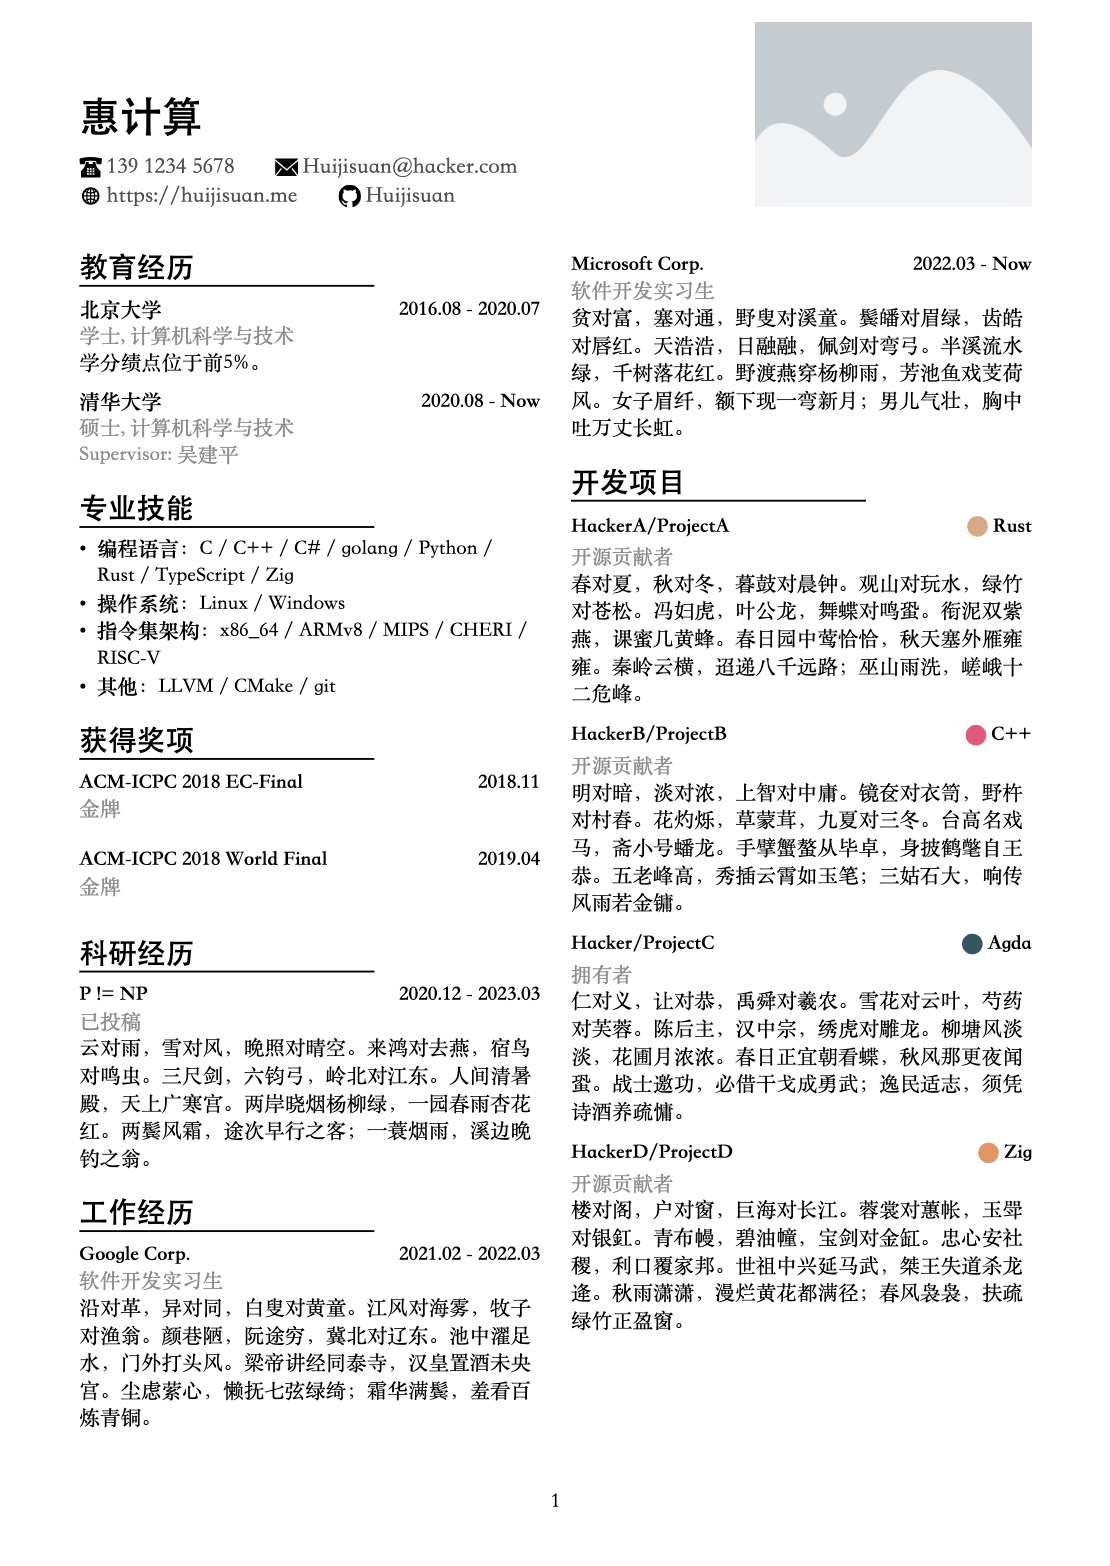
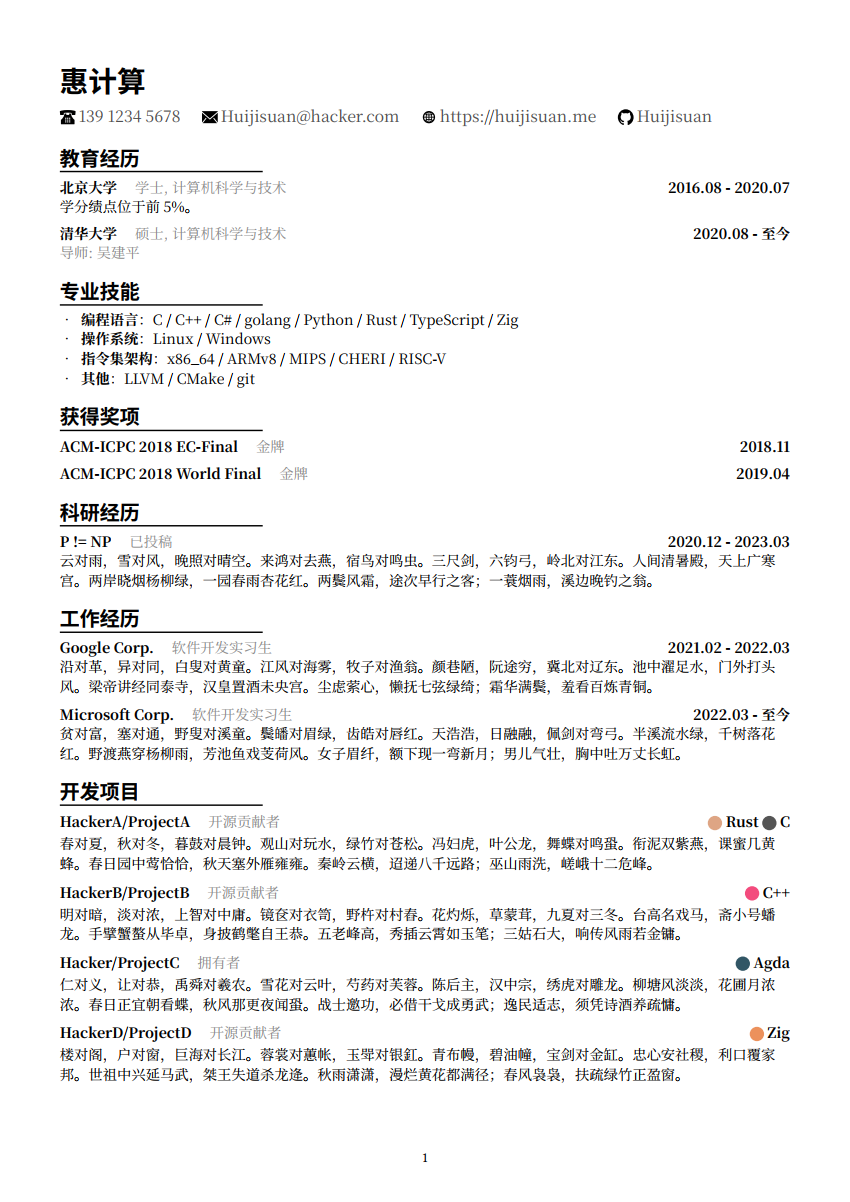
chore: update screenshot

diff --git a/README.md b/README.md
@@ -23,7 +23,6 @@ You can import this file into your own typst file to use the template:
   "Your email",
   webpage: "https://your.home.page",
   github-id: "YourGithubId",
-  photo: image("figures/photo.png"),  // Your personal photograph
   lang: "en",
 )
 
